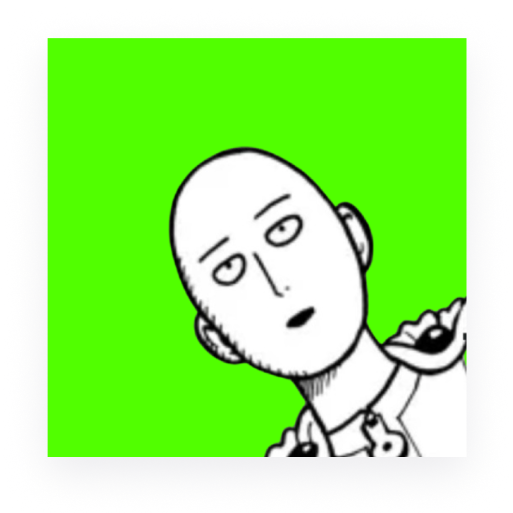
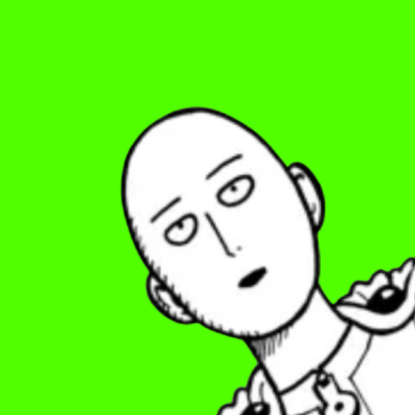
feat: add image viewer

diff --git a/src/constants/index.js b/src/constants/index.js
@@ -397,7 +397,7 @@ const ABOUT_LOCATION = {
       kind: "file",
       fileType: "img",
       position: "top-10 left-5",
-      imageUrl: "/images/adrian.jpg",
+      imageUrl: "/images/wein.jpg",
     },
     {
       id: 2,
@@ -406,16 +406,16 @@ const ABOUT_LOCATION = {
       kind: "file",
       fileType: "img",
       position: "top-28 right-72",
-      imageUrl: "/images/adrian-2.jpg",
+      imageUrl: "/images/wein-2.png",
     },
     {
       id: 3,
-      name: "conference-me.png",
+      name: "serious-me.png",
       icon: "/images/image.png",
       kind: "file",
       fileType: "img",
       position: "top-52 left-80",
-      imageUrl: "/images/adrian-3.jpeg",
+      imageUrl: "/images/wein-1.png",
     },
     {
       id: 4,
@@ -467,7 +467,7 @@ const TRASH_LOCATION = {
       kind: "file",
       fileType: "img",
       position: "top-10 left-10",
-      imageUrl: "/images/trash-1.png",
+      imageUrl: "/images/trash-1.webp",
     },
     {
       id: 2,

diff --git a/src/windows/ImageViewer.jsx b/src/windows/ImageViewer.jsx
@@ -1,0 +1,32 @@
+import Controls from "@components/Controls";
+import WindowWrapper from "@hoc/WindowWrapper";
+import useWindowStore from "@store/window";
+import { clsx } from "clsx";
+
+const ImageViewer = () => {
+  const { windows } = useWindowStore();
+  const data = windows.imgfile?.data;
+
+  if (!data) return;
+
+  const { id, name, imageUrl } = data;
+  return (
+    <>
+      <div id="window-header">
+        <Controls target="imgfile" />
+        <h2>{name}</h2>
+      </div>
+
+      <div className="preview">
+        {/* <div
+        className={clsx(id === 2 ? "h-[70vh]" : "max-h-[70vh]") + " preview"}
+      > */}
+        <img src={imageUrl} className={clsx(id === 2 && "h-[70vh]")} />
+      </div>
+    </>
+  );
+};
+
+const ImageViewerWindow = WindowWrapper(ImageViewer, "imgfile");
+
+export default ImageViewerWindow;

diff --git a/src/App.jsx b/src/App.jsx
@@ -4,11 +4,12 @@ import Welcome from "@components/Welcome";
 import FinderWindow from "@windows/Finder";
 import ResumeWindow from "@windows/Resume";
 import TerminalWindow from "@windows/terminal";
-import TextWindow from "@windows/Text";
+import TextViewer from "@windows/TextViewer";
+import ImageViewerWindow from "@windows/ImageViewer";
 
 import gsap from "gsap";
 import { Draggable } from "gsap/all";
-gsap.registerPlugin(Draggable)
+gsap.registerPlugin(Draggable);
 
 const App = () => {
   return (
@@ -21,7 +22,8 @@ const App = () => {
       <ResumeWindow />
       <FinderWindow />
 
-      <TextWindow />
+      <TextViewer />
+      <ImageViewerWindow />
     </main>
   );
 };

diff --git a/src/index.css b/src/index.css
@@ -377,19 +377,22 @@ body {
   }
 
   #imgfile {
-    @apply w-xl absolute top-40 left-2/12 bg-white shadow-2xl drop-shadow-2xl rounded-xl overflow-hidden;
+    @apply w-fit absolute top-40 left-2/12 bg-white shadow-2xl drop-shadow-2xl rounded-xl overflow-hidden;
 
     #window-header {
       p {
         @apply font-bold text-[#5f6266];
       }
+      h2 {
+        @apply font-bold text-sm text-center w-full;
+      }
     }
 
     .preview {
-      @apply p-2 bg-gray-200 max-h-[70vh];
+      @apply p-2 bg-gray-200 max-w-[50vw];
 
       img {
-        @apply w-full h-fit object-contain object-center;
+        @apply w-full max-h-[70vh] object-contain rounded;
       }
     }
   }
